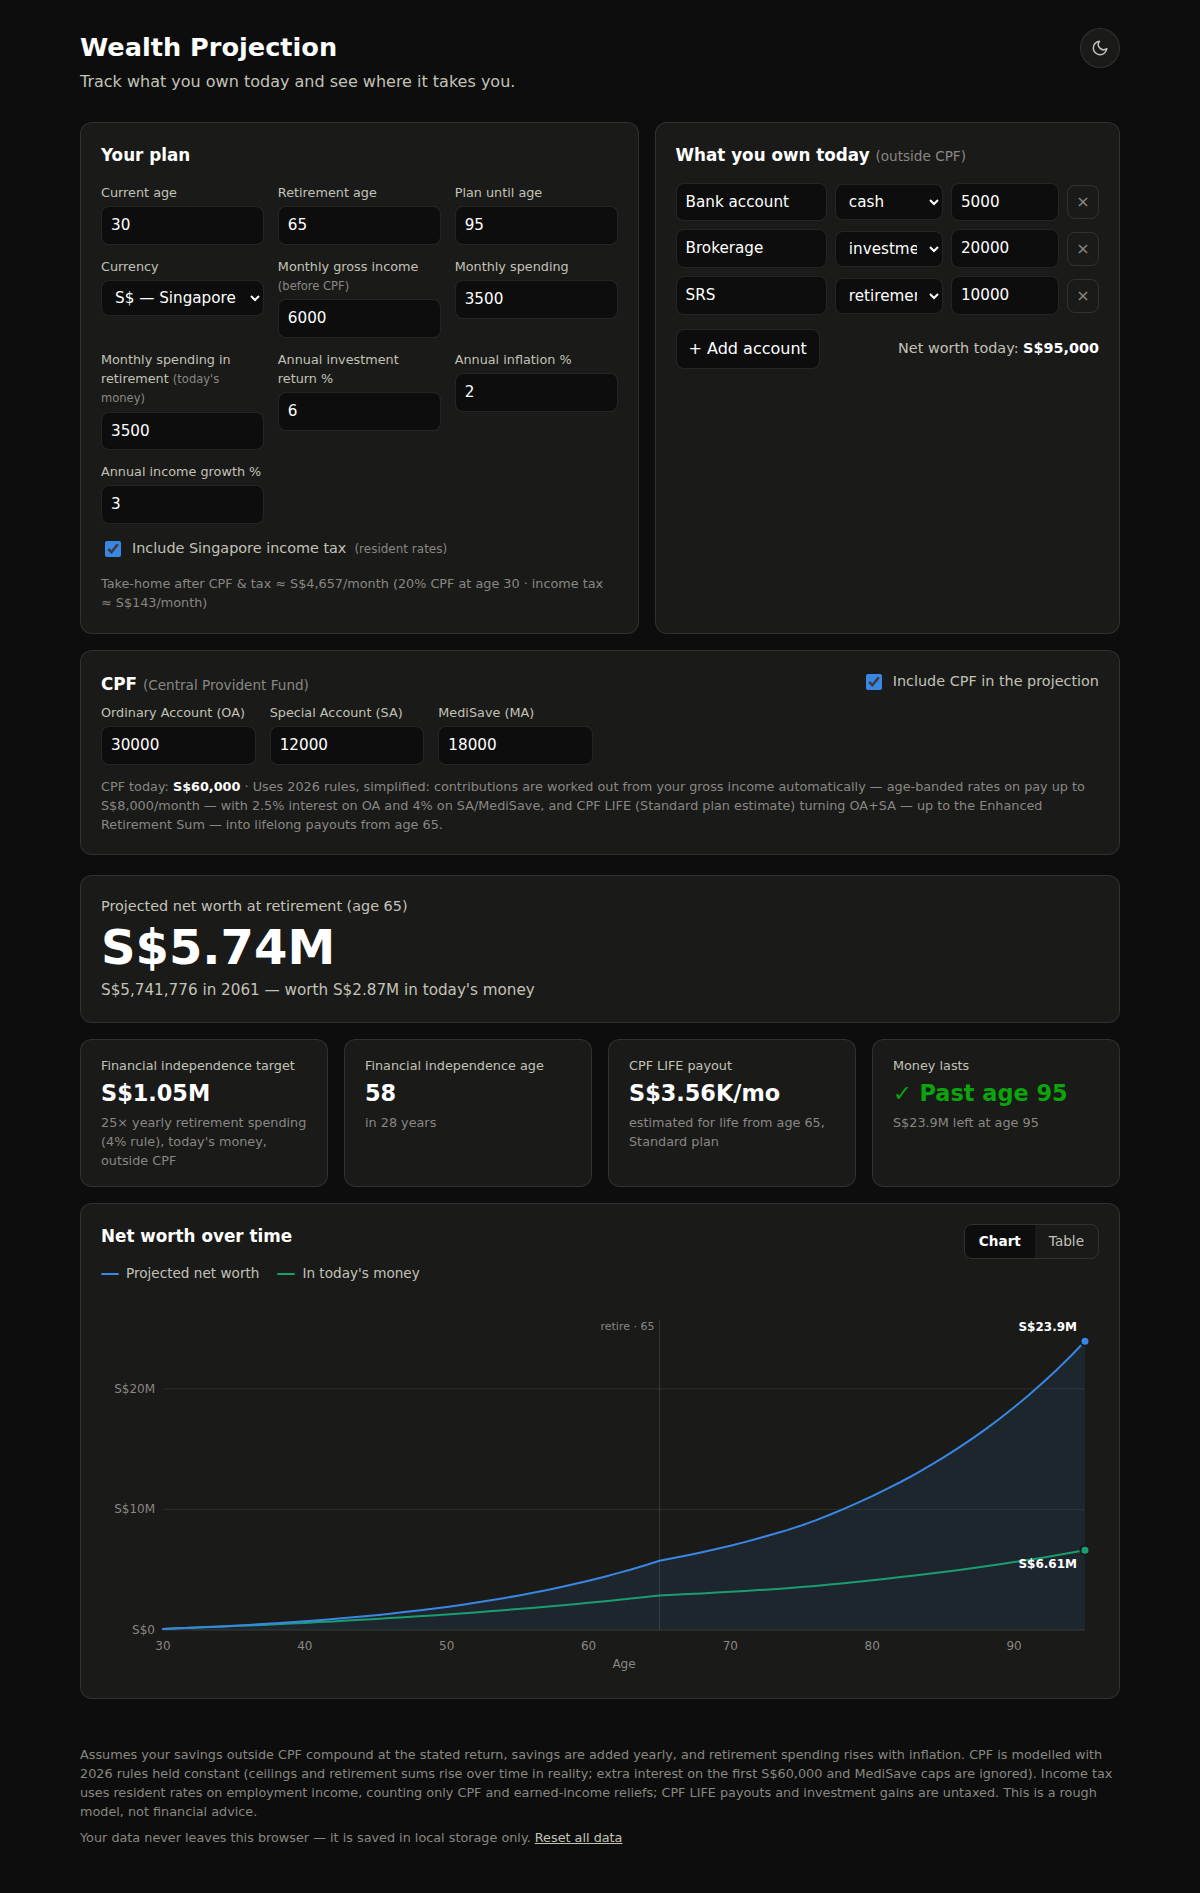
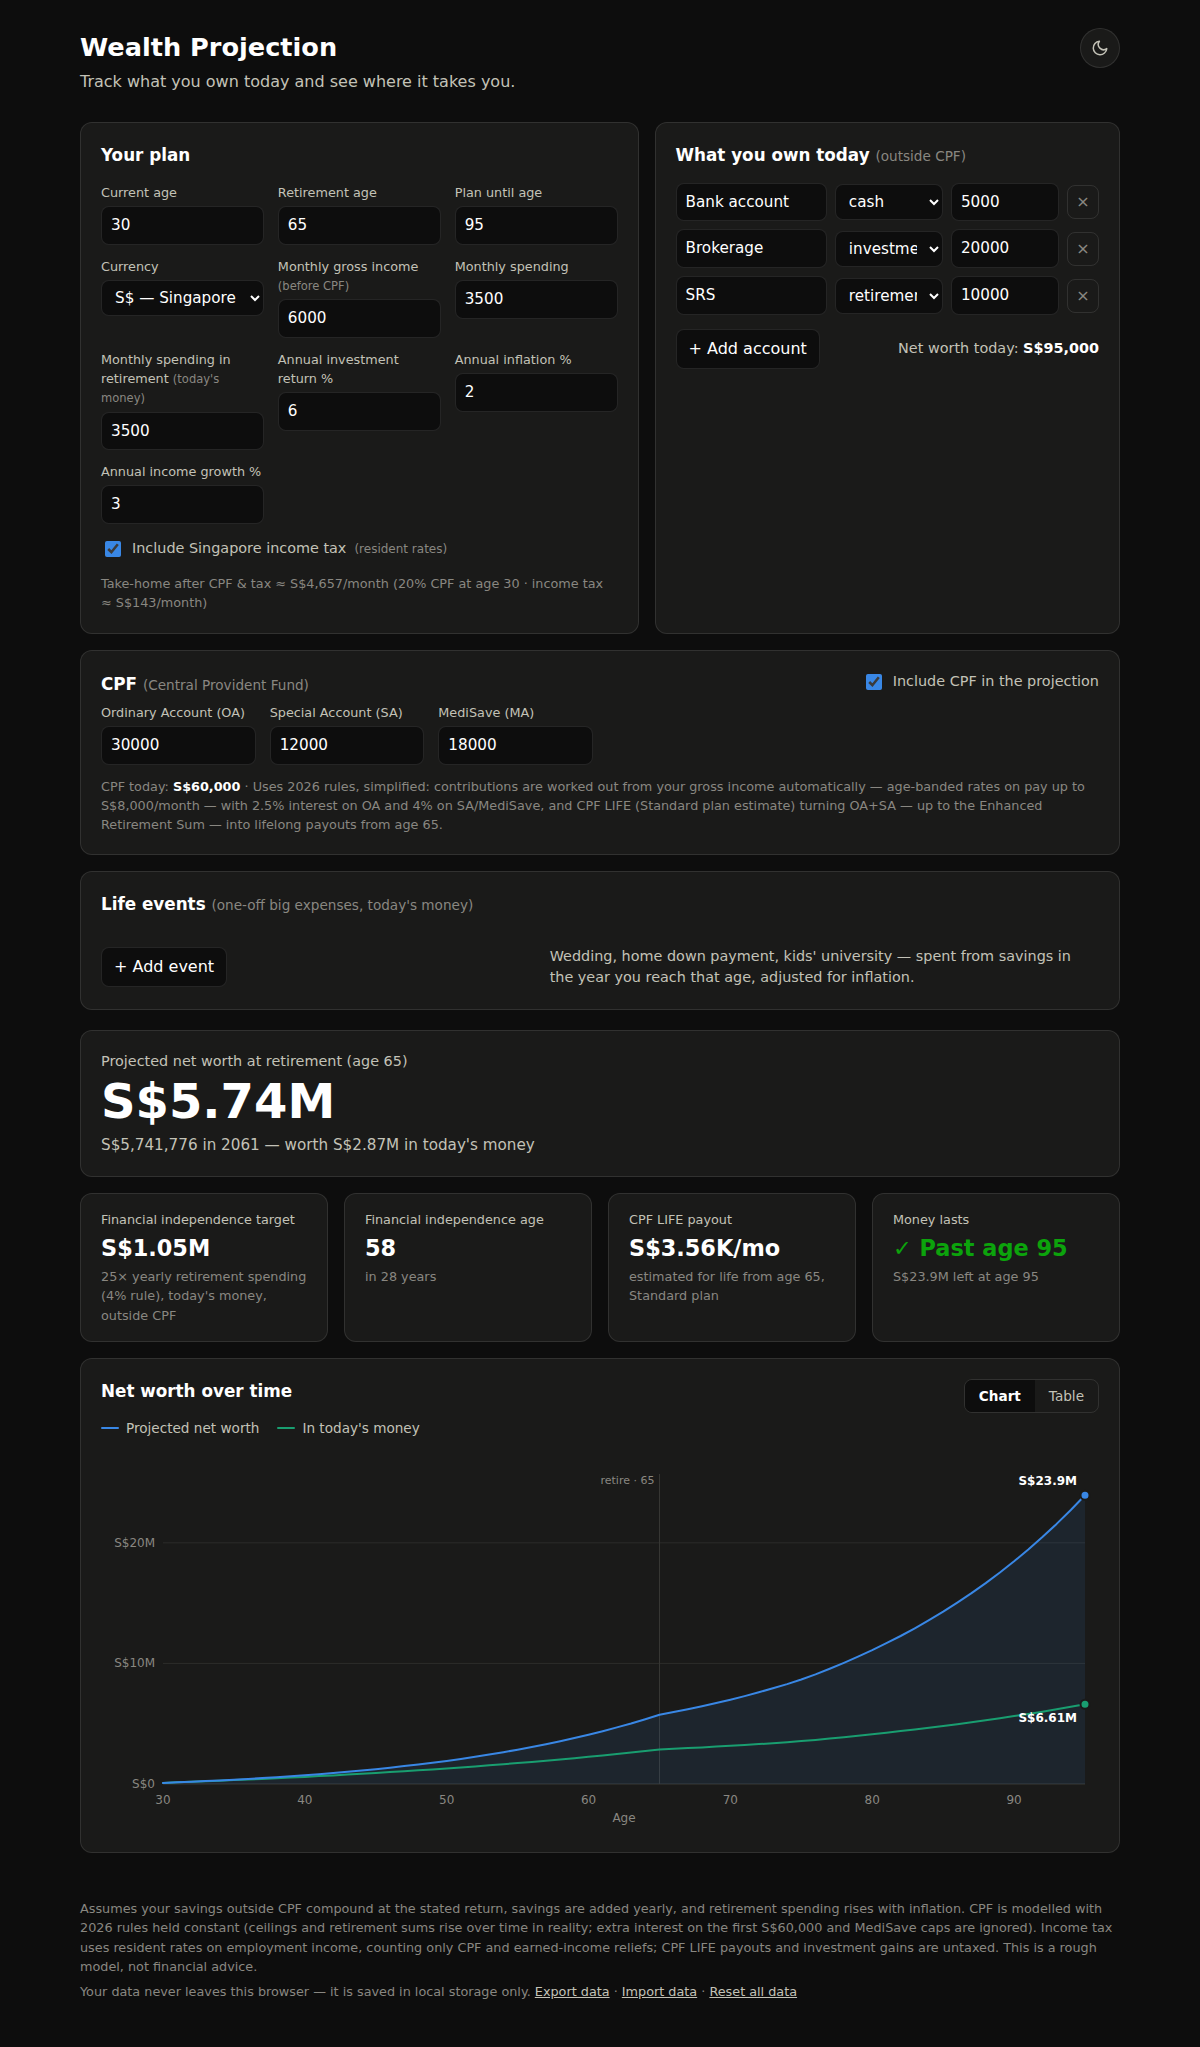
Add life events, JSON import/export, and a README TODO
Life events are one-off big expenses (wedding, home down payment)
entered in today's money at a given age; each is inflated and spent from
liquid savings in the year it lands, and can trigger depletion in
retirement. Export downloads the full state as JSON; import restores it,
accepting bare-state or payload shapes and migrating the legacy
take-home-income format. The README gains a TODO section listing what
the model doesn't cover yet, ordered by impact.

Claude-Session: https://claude.ai/code/session_01GSpZFDgGv9EkE1mJWvqyMR

diff --git a/js/app.js b/js/app.js
@@ -28,6 +28,7 @@ const DEFAULT_STATE = {
     { name: "Brokerage", type: "investments", value: 20000 },
     { name: "SRS", type: "retirement", value: 10000 },
   ],
+  events: [],
 };
 
 const ACCOUNT_TYPES = ["cash", "investments", "retirement", "property", "other"];
@@ -57,6 +58,8 @@ function mergeSaved(saved) {
   const merged = { ...structuredClone(DEFAULT_STATE), ...saved };
   merged.cpf = { ...structuredClone(DEFAULT_STATE.cpf), ...(saved.cpf || {}) };
   delete merged.cpf.grossMonthlySalary;
+  if (!Array.isArray(merged.accounts)) merged.accounts = [];
+  if (!Array.isArray(merged.events)) merged.events = [];
   return merged;
 }
 
@@ -233,6 +236,69 @@ function accountsTotal() {
   return state.accounts.reduce((sum, a) => sum + (Number.isFinite(a.value) ? a.value : 0), 0);
 }
 
+/* ---------- life events ---------- */
+function renderEvents() {
+  const list = document.getElementById("events-list");
+  list.textContent = "";
+  state.events.forEach((event, i) => {
+    const row = document.createElement("div");
+    row.className = "event-row";
+
+    const name = document.createElement("input");
+    name.type = "text";
+    name.value = event.name;
+    name.placeholder = "Event (e.g. home down payment)";
+    name.setAttribute("aria-label", "Event name");
+    name.addEventListener("input", () => {
+      event.name = name.value;
+      saveState();
+    });
+
+    const age = document.createElement("input");
+    age.type = "number";
+    age.step = "1";
+    age.min = "16";
+    age.max = "120";
+    age.value = event.age;
+    age.setAttribute("aria-label", "At age");
+    age.title = "At age";
+    age.addEventListener("input", () => {
+      const v = parseFloat(age.value);
+      event.age = Number.isFinite(v) ? v : 0;
+      saveState();
+      recompute();
+    });
+
+    const amount = document.createElement("input");
+    amount.type = "number";
+    amount.step = "1000";
+    amount.min = "0";
+    amount.value = event.amount;
+    amount.setAttribute("aria-label", `Amount in today's ${state.currency}`);
+    amount.addEventListener("input", () => {
+      const v = parseFloat(amount.value);
+      event.amount = Number.isFinite(v) ? v : 0;
+      saveState();
+      recompute();
+    });
+
+    const remove = document.createElement("button");
+    remove.type = "button";
+    remove.className = "account-remove";
+    remove.textContent = "×";
+    remove.setAttribute("aria-label", `Remove ${event.name || "event"}`);
+    remove.addEventListener("click", () => {
+      state.events.splice(i, 1);
+      saveState();
+      renderEvents();
+      recompute();
+    });
+
+    row.append(name, age, amount, remove);
+    list.append(row);
+  });
+}
+
 function netWorthToday() {
   return accountsTotal() + (state.cpf.enabled ? cpfTotalToday() : 0);
 }
@@ -257,6 +323,7 @@ function recompute() {
     incomeGrowthRate: state.incomeGrowthRate,
     includeTax: state.includeTax,
     cpf: state.cpf,
+    events: state.events,
   });
 
   updateIncomeHint();
@@ -467,6 +534,66 @@ document.getElementById("add-account").addEventListener("click", () => {
   rows[rows.length - 1]?.querySelector("input")?.focus();
 });
 
+document.getElementById("add-event").addEventListener("click", () => {
+  state.events.push({ name: "", age: state.currentAge + 5, amount: 0 });
+  saveState();
+  renderEvents();
+  recompute();
+  const rows = document.querySelectorAll("#events-list .event-row");
+  rows[rows.length - 1]?.querySelector("input")?.focus();
+});
+
+/* ---------- import / export ---------- */
+document.getElementById("export-data").addEventListener("click", () => {
+  const payload = {
+    app: "wealth-projection",
+    version: 1,
+    exportedAt: new Date().toISOString(),
+    state,
+  };
+  const blob = new Blob([JSON.stringify(payload, null, 2)], { type: "application/json" });
+  const url = URL.createObjectURL(blob);
+  const a = document.createElement("a");
+  a.href = url;
+  a.download = `wealth-projection-${new Date().toISOString().slice(0, 10)}.json`;
+  a.click();
+  URL.revokeObjectURL(url);
+});
+
+document.getElementById("import-data").addEventListener("click", () => {
+  document.getElementById("import-file").click();
+});
+
+document.getElementById("import-file").addEventListener("change", async (ev) => {
+  const file = ev.target.files?.[0];
+  ev.target.value = ""; // allow re-importing the same file
+  if (!file) return;
+  try {
+    const parsed = JSON.parse(await file.text());
+    // accept both an export payload and a bare state object
+    const saved = parsed && typeof parsed.state === "object" ? parsed.state : parsed;
+    if (!saved || typeof saved !== "object" ||
+        !("accounts" in saved || "cpf" in saved || "monthlyGrossIncome" in saved)) {
+      throw new Error("not a wealth-projection export");
+    }
+    if (!confirm("Replace your current data with the imported file?")) return;
+    if (saved.monthlyIncome != null && saved.monthlyGrossIncome == null) {
+      // legacy shape: take-home income + CPF gross salary
+      saved.monthlyGrossIncome = saved.cpf?.grossMonthlySalary ?? saved.monthlyIncome;
+      delete saved.monthlyIncome;
+    }
+    state = mergeSaved(saved);
+    saveState();
+    bindPlanInputsValuesOnly();
+    applyTheme();
+    renderAccounts();
+    renderEvents();
+    recompute();
+  } catch {
+    alert("Couldn't import that file — it doesn't look like a wealth-projection export.");
+  }
+});
+
 document.getElementById("reset-data").addEventListener("click", () => {
   if (!confirm("Reset all data to the defaults?")) return;
   localStorage.removeItem(STORAGE_KEY);
@@ -474,6 +601,7 @@ document.getElementById("reset-data").addEventListener("click", () => {
   bindPlanInputsValuesOnly();
   applyTheme();
   renderAccounts();
+  renderEvents();
   recompute();
 });
 
@@ -502,4 +630,5 @@ bindPlanInputs();
 bindCpfInputs();
 bindViewToggle();
 renderAccounts();
+renderEvents();
 recompute();

diff --git a/index.html b/index.html
@@ -138,6 +138,17 @@
           lifelong payouts from age 65.
         </p>
       </div>
+
+      <div class="card events-card">
+        <h2>Life events <small class="h2-hint">(one-off big expenses, today's money)</small></h2>
+        <div id="events-list" class="accounts-list"></div>
+        <div class="accounts-footer">
+          <button type="button" id="add-event" class="btn">+ Add event</button>
+          <p class="accounts-total events-hint">Wedding, home down payment, kids'
+            university — spent from savings in the year you reach that age,
+            adjusted for inflation.</p>
+        </div>
+      </div>
     </section>
 
     <section class="results" aria-label="Projection results">
@@ -179,7 +190,10 @@
        earned-income reliefs; CPF LIFE payouts and investment gains are untaxed.
        This is a rough model, not financial advice.</p>
     <p>Your data never leaves this browser — it is saved in local storage only.
-       <button type="button" id="reset-data" class="btn-link">Reset all data</button></p>
+       <button type="button" id="export-data" class="btn-link">Export data</button> ·
+       <button type="button" id="import-data" class="btn-link">Import data</button> ·
+       <button type="button" id="reset-data" class="btn-link">Reset all data</button>
+       <input type="file" id="import-file" accept="application/json,.json" hidden></p>
   </footer>
 
   <script type="module" src="js/app.js"></script>

diff --git a/js/projection.js b/js/projection.js
@@ -91,6 +91,19 @@ export function project(p) {
   let expenses = num(p.annualExpenses, 0);
   const retirementSpendToday = num(p.annualRetirementSpend, expenses);
 
+  // One-off life events (wedding, home down payment…): amounts in today's
+  // money, spent from liquid savings in the year the given age is reached.
+  const eventsByAge = new Map();
+  if (Array.isArray(p.events)) {
+    for (const e of p.events) {
+      const eventAge = num(e.age, NaN);
+      const amount = num(e.amount, 0);
+      if (Number.isFinite(eventAge) && amount) {
+        eventsByAge.set(eventAge, (eventsByAge.get(eventAge) || 0) + amount);
+      }
+    }
+  }
+
   const taxOn = !!p.includeTax;
   const cpfOn = !!(p.cpf && p.cpf.enabled);
   let oa = cpfOn ? num(p.cpf.oa, 0) : 0;
@@ -156,6 +169,7 @@ export function project(p) {
         // CPF LIFE payouts are tax-exempt; withdrawals aren't income
         cashFlow = annualPayout - retirementSpendToday * deflator;
       }
+      cashFlow -= (eventsByAge.get(age) || 0) * deflator;
 
       const liquidBefore = liquid;
       liquid += growth + cashFlow;

diff --git a/styles.css b/styles.css
@@ -131,6 +131,20 @@ input:focus-visible, select:focus-visible, button:focus-visible, .chart-region:f
 
 .h2-hint { font-weight: 400; color: var(--text-muted); font-size: 0.85rem; }
 
+/* life events */
+.events-card { grid-column: 1 / -1; }
+.event-row {
+  display: grid;
+  grid-template-columns: 1.6fr 0.6fr 1fr auto;
+  gap: 8px;
+  align-items: center;
+}
+@media (max-width: 560px) {
+  .event-row { grid-template-columns: 0.8fr 1.2fr auto; }
+  .event-row input[type="text"] { grid-column: 1 / -1; }
+}
+.events-hint { max-width: 60ch; }
+
 /* CPF */
 .cpf-card { grid-column: 1 / -1; }
 .cpf-header {

diff --git a/README.md b/README.md
@@ -38,6 +38,12 @@ on `file://` URLs.)
   with a retirement marker and a crosshair tooltip (mouse or arrow keys).
 - **Light & dark mode** — follows your system by default; the sun/moon button
   in the top-right corner switches theme, and the choice is remembered.
+- **Life events** — one-off big expenses (wedding, home down payment, kids'
+  university) entered in today's money at a given age; each is inflated and
+  spent from savings in the year it lands.
+- **Import / export** — download all your data as a JSON file and load it back
+  later or on another device (footer links). Old export shapes are migrated on
+  import.
 - **Table view** — the same projection as year-by-year figures: net worth,
   today's-money value, CPF balance, amount saved or withdrawn, and investment
   growth.
@@ -56,6 +62,10 @@ Annual steps, deliberately simple:
   withdrawn instead (net of CPF LIFE payouts once they start). If liquid
   savings hit zero they stay there (no borrowing).
 - "Today's money" divides nominal values by cumulative inflation.
+- Life events are one-off outflows from liquid savings, inflated from today's
+  money to the year they occur. A house purchase is modelled as the cash you
+  part with (e.g. the down payment) — the property doesn't come back as an
+  asset (see TODO).
 - Financial independence is measured against assets *outside* CPF, since CPF is
   locked until the payout age.
 
@@ -100,6 +110,41 @@ CPF parameters (in `js/projection.js`) are based on:
 [CPF contribution rates from 1 Jan 2026](https://www.cpf.gov.sg/employer/employer-obligations/how-much-cpf-contributions-to-pay) ·
 [2026 retirement sums and payout estimates](https://www.cpf.gov.sg/service/article/what-is-the-current-enhanced-retirement-sum) ·
 [senior-worker rate changes](https://www.cpf.gov.sg/service/article/what-are-the-changes-to-the-cpf-contribution-rates-for-senior-workers-from-1-january-2026)
+
+## TODO — what the model doesn't cover yet
+
+Roughly in order of how much they'd change the numbers:
+
+- [ ] **Housing as an asset, not just an expense** — a home purchase should add
+  a property to net worth with a mortgage against it (repayments, interest,
+  appreciation), and support using CPF OA for housing. Today a purchase is
+  only the cash leaving your savings.
+- [ ] **Per-account returns / asset allocation** — cash, brokerage, and SRS all
+  compound at one blended rate; idle cash earning ~0% and equities earning
+  more should diverge.
+- [ ] **SRS modelling** — contributions should reduce chargeable income (tax
+  relief), and withdrawals from 63 are 50% taxable; today SRS is just another
+  account.
+- [ ] **Windfalls / income events** — one-off inflows (inheritance, bonus,
+  sale) as the positive twin of life events; recurring multi-year costs
+  (children's education) too.
+- [ ] **Scenario bands** — optimistic/pessimistic return spread around the
+  projection, or Monte Carlo for sequence-of-returns risk; a single fixed
+  return flatters retirement drawdown.
+- [ ] **Parameter indexation** — CPF ceilings, retirement sums, BHS, and tax
+  brackets are held at 2026 values; in reality they rise, which matters over
+  a 60-year projection.
+- [ ] **CPF fine detail** — extra 1% interest on the first S$60,000, MediSave
+  cap (BHS) with overflow to SA, age-based allocation shifts, withdrawal of
+  savings above the FRS at 55, and CPF LIFE plan choice
+  (Standard/Escalating/Basic).
+- [ ] **More tax reliefs** — spouse/child/parent reliefs, CPF top-up and SRS
+  reliefs, and the S$80,000 relief cap; only earned-income and CPF reliefs
+  count today.
+- [ ] **Couples / joint planning** — two incomes, two CPF accounts, shared
+  expenses and events.
+- [ ] **Event markers on the chart** — label life events on the timeline so a
+  dip is self-explanatory.
 
 ## Project layout
 
